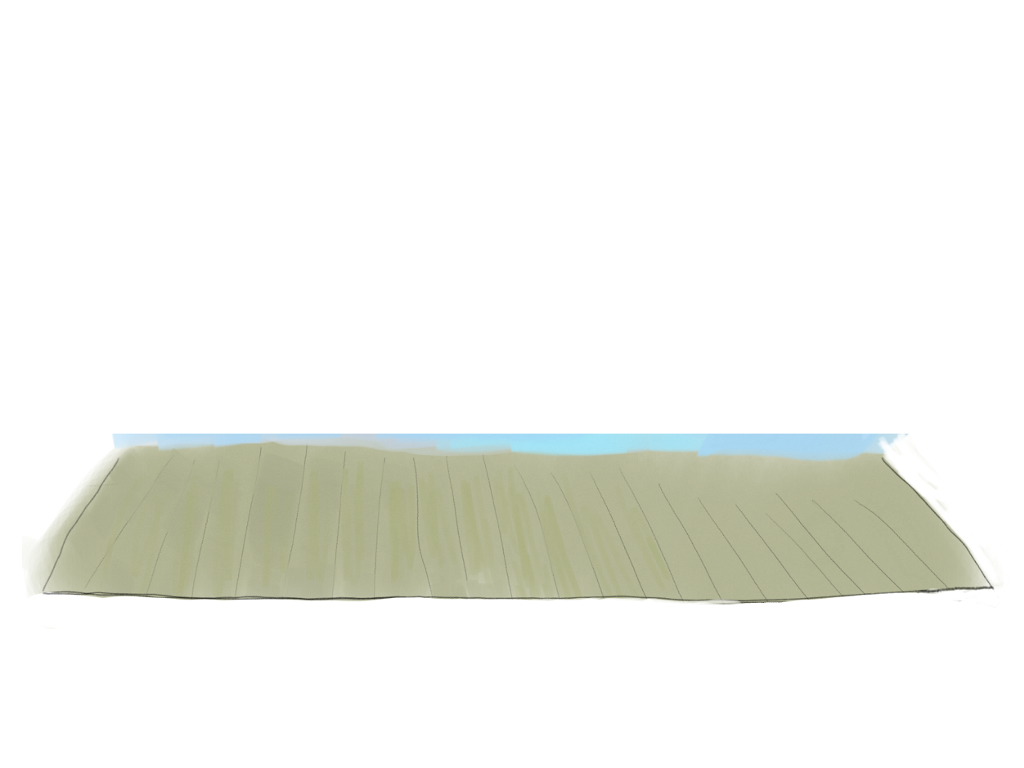
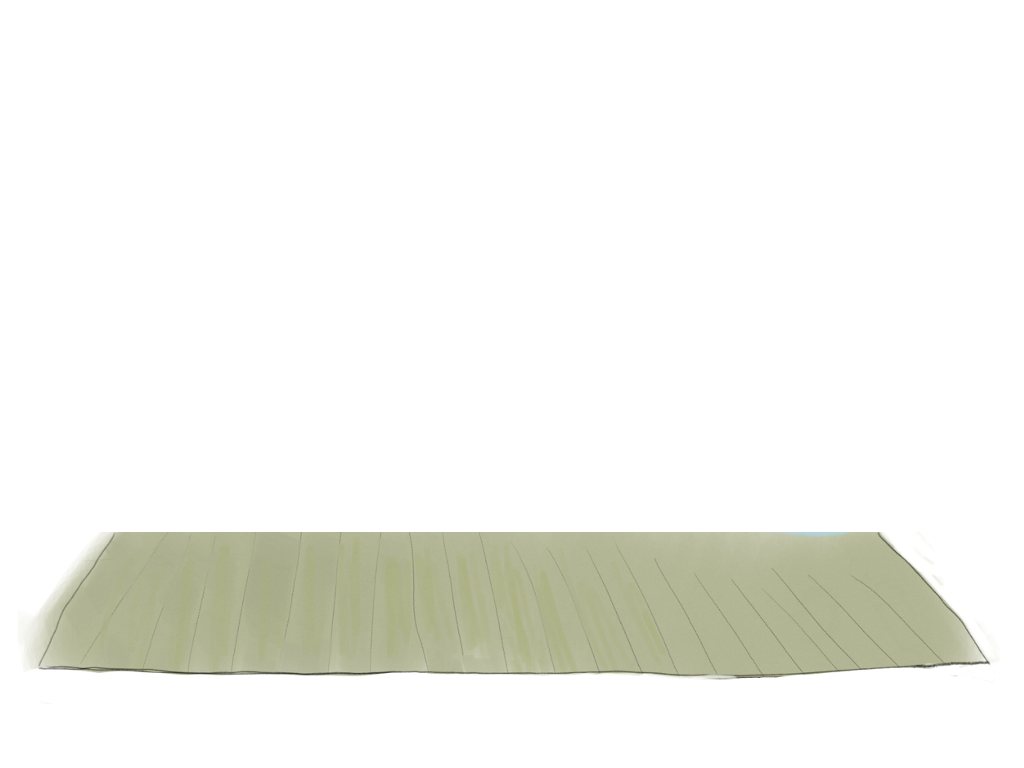
Stage: Korrektes Verschieben der einzelnen Layers. Bin mir aber nich sicher ob es so funktioniert wie es soll.

Changed region(s): [[0.0312, 0.5625, 0.9688, 0.9062]]

diff --git a/stage.cpp b/stage.cpp
@@ -97,7 +97,8 @@ namespace Adventure
 			
 			
 			int maxIndex = 20;
-					
+
+
 			for ( int i=0; i<maxIndex; i++ )
 			{
 				for ( std::vector<Layer*>::iterator it = this->mLayers.begin() ; it != this->mLayers.end(); ++it )
@@ -106,20 +107,29 @@ namespace Adventure
 					
 					if ( i == currentLayer->getZIndex() )
 					{
-						int neg_position_x = 0.8*currentLayer->getZIndex()*(512-this->mCameraPosition);
-							
+						double radiant = mCameraAngle*(2*M_PI/360);
+
+						double b = ( atan( radiant ) * (( ((double)mDepth) / 20.0) * ((double)i) ) );
+
+						double factor = (2*b / 1024.0);
+
+						int x = -1.0 * ( ((double)mCameraPosition) -  b ) * factor;
+
 						SDL_Rect calculated_position;
-						calculated_position.x = neg_position_x;
+
+						calculated_position.x = x;
 						calculated_position.y = 0;
 						
 						calculated_position.w = currentLayer->getSurface()->w;
 						calculated_position.h = currentLayer->getSurface()->h;
 						
 						SDL_BlitSurface(currentLayer->getSurface(),0,this->mSurface,&calculated_position);
-					
+						
+
 					}
 				}
 			}
+
 			SDL_UpdateRect(this->mSurface, 0, 0, 1024, 768);
 			SDL_Flip(this->mSurface);
 		}

diff --git a/stage.hpp b/stage.hpp
@@ -57,7 +57,7 @@ namespace Adventure
 				
 				SDL_Surface* mSurface;
 				
-				static const int mCameraAngle = 30;			// Camera-Angle falls die Berechnung mal implementiert ist
+				static const double mCameraAngle = 46.8;			// Camera-Angle falls die Berechnung mal implementiert ist
 				int mCameraPosition;
 				int mDepth;
 				int mMaxDepth;
